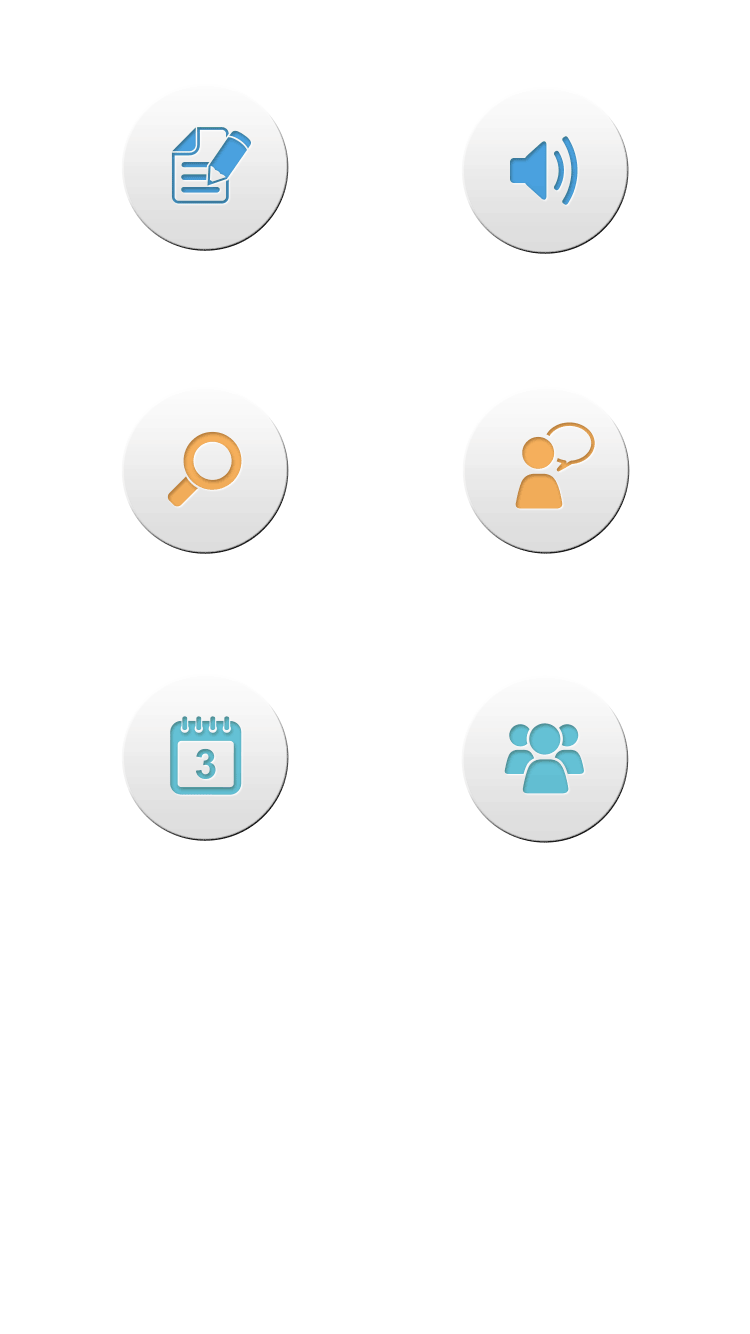
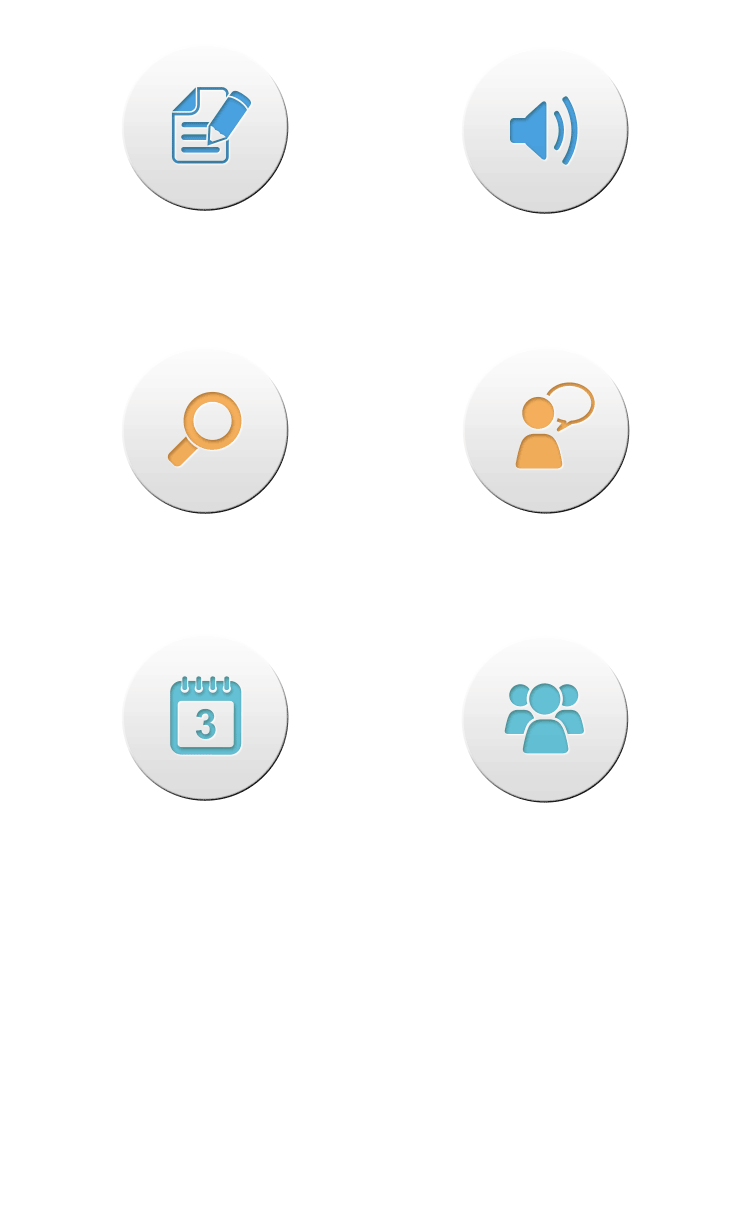
1

diff --git a/index.html b/index.html
@@ -57,12 +57,13 @@
         #part2 {
             background: url("img/bg2.png") no-repeat 0/ 100% 100%;
             position: relative;
-            height:13.34rem ;
+            height:12.06rem ;
         }
 
         #part2 div:nth-of-type(1) {
             background: url("img/part2.png") no-repeat 0/ 100% 100%;
             height: 100%;
+            width: 100%;
         }
 
         #part2 a {
@@ -70,14 +71,14 @@
             width: 4.98rem;
             height: .95rem;
             position: absolute;
-            margin-top: 10.45rem;
+            top: 9.26rem;
             margin-left: 1.27rem;
         }
 
         #part3 {
             background: url("img/bg3.png") no-repeat 0/ 100% 100%;
             position: relative;
-            height:13.34rem ;
+            height:12.14rem ;
         }
 
         #part3 div {
@@ -88,7 +89,7 @@
         #part4 {
             background: url("img/bg4.png") no-repeat 0/ 100% 100%;
             position: relative;
-            height:13.34rem ;
+            height:12.14rem ;
         }
 
         #part4 a {
@@ -96,26 +97,26 @@
             width: 4.98rem;
             height: .95rem;
             position: absolute;
-            margin-top: 6.72rem;
+            margin-top: 6.46rem;
             margin-left: 1.27rem;
         }
 
         #part5 {
             background: url("img/bg5.png") no-repeat 0/ 100% 100%;
             position: relative;
-            height:13.34rem ;
+            height:12.14rem ;
         }
 
         #part6 {
             background: url("img/bg6.png") no-repeat 0/ 100% 100%;
             position: relative;
-            height:13.34rem ;
+            height:12.06rem ;
         }
 
         #part6 div {
             background: url("img/part6.png") no-repeat 0/ 100% 100%;
-            height: 100%;
             width: 100%;
+            height: 100%;
             position: absolute;
         }
 
@@ -125,7 +126,7 @@
             border: 1px solid #f4af5b;
             width: 6.35rem;
             height: .79rem;
-            margin-top: 10.02rem;
+            margin-top: 8.62rem;
             margin-left: .55rem;
             color: white;
         }
@@ -136,7 +137,7 @@
             height: .95rem;
             position: absolute;
             border: none;
-            margin-top: 11.35rem;
+            margin-top: 9.75rem;
             margin-left: 1.27rem;
         }
     </style>
